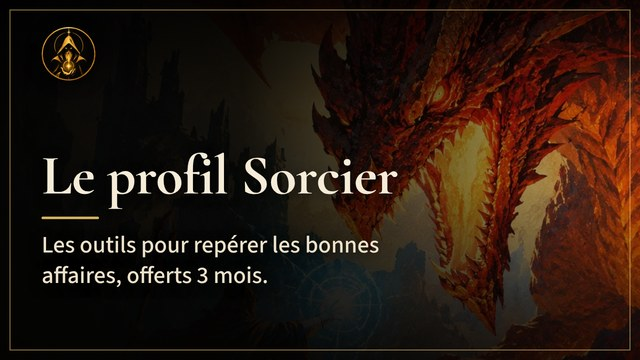
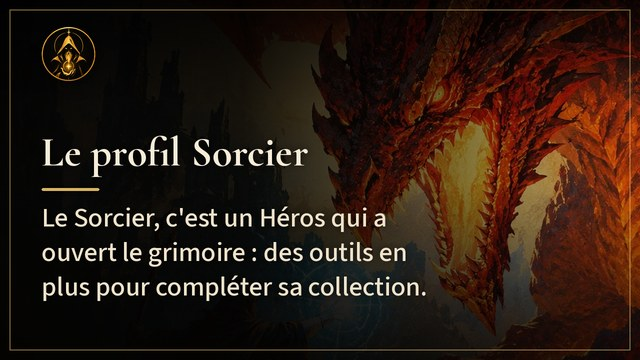
Nouvelles : phrases des images dans l'esprit des livres dont vous êtes le héros, sans trading ni « bonne chasse » (#1317)
* Annonces : préréglages Chasse et Veille hors du panneau, repris dans le générateur de pages

Claude-Session: https://claude.ai/code/session_01HTe4GG8zQBr2ycdCYNMDrp

* Consignes : les pages générées se modifient dans le gabarit

Claude-Session: https://claude.ai/code/session_01HTe4GG8zQBr2ycdCYNMDrp

* Offre Sorcier : textes plus positifs (articles et bandeau de fin d'accès)

Claude-Session: https://claude.ai/code/session_01HTe4GG8zQBr2ycdCYNMDrp

* Nouvelle : le guide de référence, offert et mis à jour chaque jour (page, carte Communauté, flux RSS)

Claude-Session: https://claude.ai/code/session_01HTe4GG8zQBr2ycdCYNMDrp

* Nouvelle du guide de référence : version courte

Claude-Session: https://claude.ai/code/session_01HTe4GG8zQBr2ycdCYNMDrp

* Nouvelle du guide : le guide donne un niveau de prix, pas la cote par état

Claude-Session: https://claude.ai/code/session_01HTe4GG8zQBr2ycdCYNMDrp

* Nouvelle du guide : intitulé exact de l'entrée du menu

Claude-Session: https://claude.ai/code/session_01HTe4GG8zQBr2ycdCYNMDrp

* Nouvelle du guide : repères du marché, sans prix

Claude-Session: https://claude.ai/code/session_01HTe4GG8zQBr2ycdCYNMDrp

* Nouvelle du guide : une stratégie par zone, pas une méthode pour savoir quand acheter

Claude-Session: https://claude.ai/code/session_01HTe4GG8zQBr2ycdCYNMDrp

* Flux RSS : texte détaillé par nouvelle pour les publications Facebook

Claude-Session: https://claude.ai/code/session_01HTe4GG8zQBr2ycdCYNMDrp
[…]

Changed region(s): [[0.0625, 0.3667, 0.6562, 0.825], [0.0625, 0.1222, 0.1562, 0.2444]]

diff --git a/web/guide-reference.html b/web/guide-reference.html
@@ -4,12 +4,12 @@
 <meta charset="utf-8">
 <meta name="viewport" content="width=device-width, initial-scale=1">
 <title>Le guide de référence, offert · La Cote du Héros</title>
-<meta name="description" content="Chaque livre, chaque édition et ses repères du marché, avec une stratégie pour acheter et vendre : le guide PDF est offert et refait chaque jour.">
+<meta name="description" content="Chaque livre, chaque édition et ses repères, avec la stratégie du collectionneur : le guide PDF est offert et refait chaque jour.">
 <meta property="og:type" content="website">
 <meta property="og:site_name" content="La Cote du Héros">
 <meta property="og:locale" content="fr_FR">
 <meta property="og:title" content="Le guide de référence, offert · La Cote du Héros">
-<meta property="og:description" content="Chaque livre, chaque édition et ses repères du marché, avec une stratégie pour acheter et vendre : le guide PDF est offert et refait chaque jour.">
+<meta property="og:description" content="Chaque livre, chaque édition et ses repères, avec la stratégie du collectionneur : le guide PDF est offert et refait chaque jour.">
 <meta property="og:image" content="https://lacoteduheros.fr/data/communaute/guide-reference-partage.jpg">
 <meta property="og:image:width" content="1200">
 <meta property="og:image:height" content="630">
@@ -54,12 +54,12 @@
 <p class="surtitre">Nouvelle · <time datetime="2026-11-22">22 novembre 2026</time></p>
 <h1>Le guide de référence, offert</h1>
 <img class="nouvelle-img pleine" src="images/guide-reference.webp" alt="Le guide de référence, offert : un héros brandit son épée face à un dragon" width="1200" height="630" decoding="async">
-<p>Chaque livre, chaque édition et ses repères du marché, avec une stratégie pour acheter et vendre selon la zone de chaque livre. Le guide est <strong>offert</strong> et <strong>refait chaque jour</strong>.</p>
+<p>Chaque livre, chaque édition et ses repères, avec la stratégie du collectionneur selon la zone de chaque livre. Le guide est <strong>offert</strong> et <strong>refait chaque jour</strong>.</p>
 <h2>Dedans</h2>
 <ul>
-  <li>Tous les livres, éditeur par éditeur, avec leurs repères : ce qu'on trouve en vente, et si c'est cher ou bon marché.</li>
+  <li>Tous les livres, éditeur par éditeur, avec leurs repères : le nombre d'annonces en ligne, un niveau de prix et la zone.</li>
   <li>Quatre zones pour situer chaque livre (rare ou courant, cher ou bon marché).</li>
-  <li>La stratégie du collectionneur : j'achète, je vends.</li>
+  <li>La stratégie du collectionneur, zone par zone.</li>
 </ul>
 <h2>Comment l'avoir</h2>
 <p>Connectez-vous avec Google (le compte est gratuit). Vous profitez de 3 mois de Sorcier, guide compris, dans le menu du compte, « Guide de référence (PDF) ».</p>

diff --git a/web/communaute.html b/web/communaute.html
@@ -104,7 +104,7 @@
     <h2 id="nouv-titre-dialogue">Créer une nouvelle</h2>
     <p class="sous">La page, les images, la carte de la Communauté et le flux RSS sont faits tout seuls. Make publie ensuite sur Facebook.</p>
     <div class="champ"><label for="nouv-titre">Titre (écrit en grand sur l'image)</label><input type="text" id="nouv-titre" required maxlength="80" autocomplete="off"></div>
-    <div class="champ"><label for="nouv-phrase">Phrase de l'image (sous le titre)</label><input type="text" id="nouv-phrase" required maxlength="140" autocomplete="off"></div>
+    <div class="champ"><label for="nouv-phrase">Phrase de l'image (une phrase naturelle, dans l'esprit des livres dont vous êtes le héros)</label><input type="text" id="nouv-phrase" required maxlength="140" autocomplete="off"></div>
     <div class="champ"><label for="nouv-texte">Texte de l'article</label><textarea id="nouv-texte" required rows="9" maxlength="8000"></textarea>
       <p class="sous">Paragraphes séparés par une ligne vide. « ## Titre » pour une section, « - » pour une puce, « 1. » pour une étape, **gras**, [texte](adresse).</p></div>
     <div class="champ"><label for="nouv-facebook">Texte de la publication Facebook (facultatif)</label><textarea id="nouv-facebook" rows="5" maxlength="3000"></textarea></div>

diff --git a/web/essai-sorcier.html b/web/essai-sorcier.html
@@ -65,7 +65,7 @@
   <li><strong>Une pépite par jour</strong> : une annonce nettement sous la cote, offerte à tous les comptes.</li>
 </ul>
 <h2>Et en cadeau, le Sorcier</h2>
-<p>Un Héros avec des outils pour repérer les bonnes affaires et suivre le marché, offerts pendant 3 mois :</p>
+<p>Un Héros avec des outils en plus, offerts pendant 3 mois :</p>
 <ul>
   <li><strong>L'accès aux annonces</strong> : toutes les annonces reçues, du jour ou de la semaine.</li>
   <li><strong>Le Butin</strong> : les annonces d'occasion à 50 % du prix du site ou moins, avec les nouveautés signalées.</li>

diff --git a/pipeline/nouvelle.py b/pipeline/nouvelle.py
@@ -98,7 +98,7 @@ def _lignes(texte, police, largeur_max):
     sortie = []
     for bloc in texte.split("\n"):
         courante = ""
-        for mot in bloc.split():
+        for mot in [m for m in re.split(r"[ \t]+", bloc) if m]:          # seules les espaces ordinaires coupent : une espace insécable garde « 3 mois » ensemble
             essai = f"{courante} {mot}".strip()
             if police.getlength(essai) <= largeur_max or not courante:
                 courante = essai
@@ -130,17 +130,17 @@ def affiche(titre, phrase, fond, taille=(1200, 630)):
     im.alpha_composite(icone, (round(marge), round(L * 0.042)))
     # texte : le titre (et la phrase avec lui) rétrécit jusqu'à tenir dans l'image, sur trois lignes au plus
     dispo = H - (L * 0.042 + cote + L * 0.02) - L * 0.045
-    taille_titre = L * 0.088
+    taille_titre = L * 0.064
     while True:
-        taille_phrase = min(L * 0.037, taille_titre * 0.42)
+        taille_phrase = min(L * 0.042, taille_titre * 0.7)
         pt, pp = _police("titre", taille_titre), _police("texte", taille_phrase)
-        lignes_titre, lignes_phrase = _lignes(titre, pt, L * 0.66), _lignes(phrase, pp, L * 0.60)
+        lignes_titre, lignes_phrase = _lignes(titre, pt, L * 0.66), _lignes(phrase, pp, L * 0.62)
         h_titre = len(lignes_titre) * taille_titre * 1.0
         h_filet = L * 0.0038
         h_phrase = len(lignes_phrase) * taille_phrase * 1.28
         espace_haut, espace_bas = L * 0.02, L * 0.018
         bloc = h_titre + espace_haut + h_filet + espace_bas + h_phrase
-        if (len(lignes_titre) <= 3 and len(lignes_phrase) <= 4 and bloc <= dispo) or taille_titre <= L * 0.04:
+        if (len(lignes_titre) <= 3 and len(lignes_phrase) <= 5 and bloc <= dispo) or taille_titre <= L * 0.04:
             break
         taille_titre *= 0.94
     haut = max(H * 0.61 - bloc / 2, L * 0.042 + cote + L * 0.02)

diff --git a/pipeline/guide/introduction.md b/pipeline/guide/introduction.md
@@ -24,6 +24,6 @@ Trois repères l'accompagnent :
 
 Ces repères sont ceux du {date}. Lisez-les comme une indication, pas comme un verdict. La feuille d'aventure redonne le sens de chaque mot.
 
-Bonne lecture, et bonne chasse. **lacoteduheros.fr**
+Bonne lecture. **lacoteduheros.fr**
 
 Le site reste gratuit ; s'il vous est utile, vous pouvez « Offrir un café » depuis le site.
